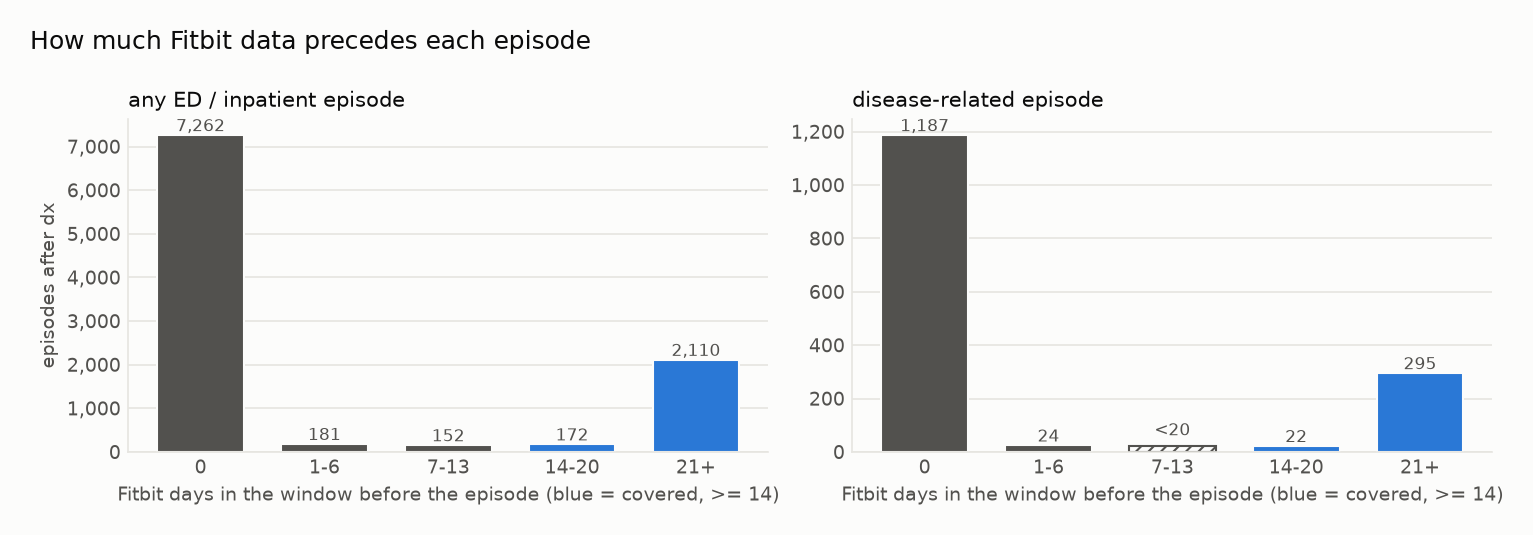
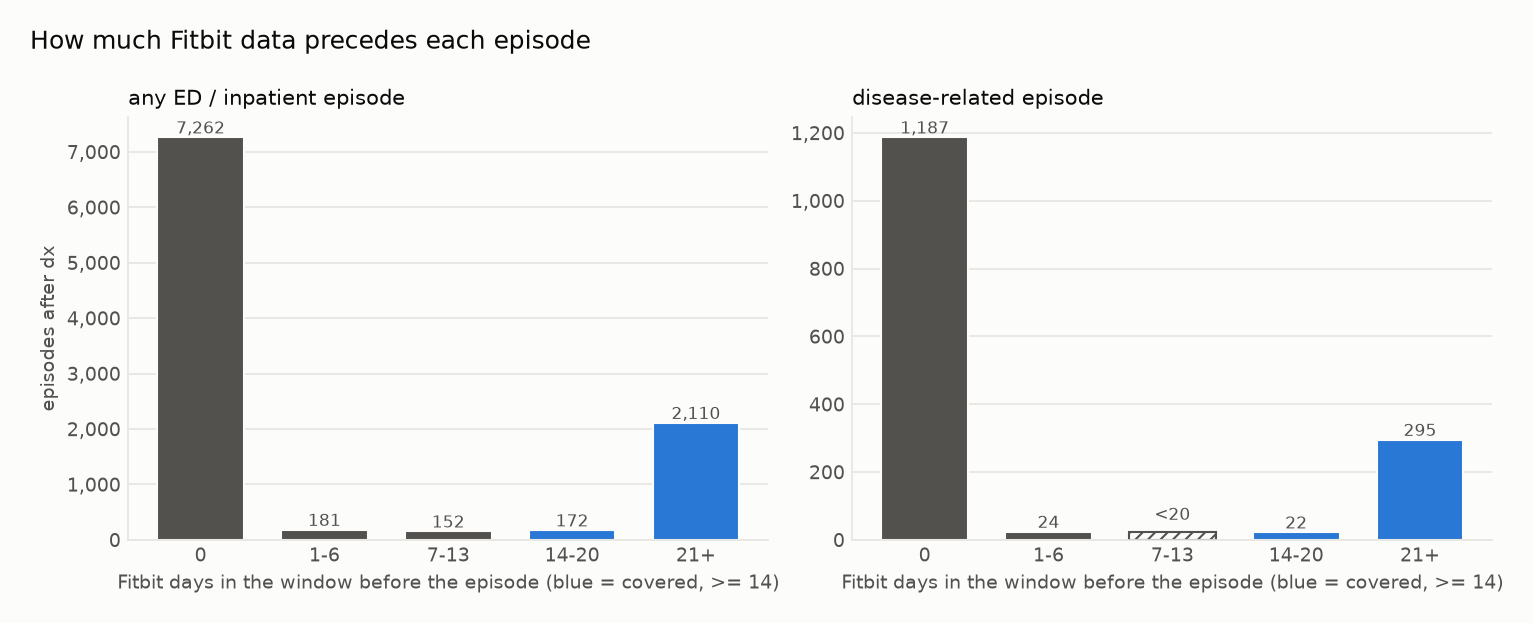
wearables-events plots: taller coverage figure (no tight-layout warning)

diff --git a/audits/wearables_events_plots.py b/audits/wearables_events_plots.py
@@ -114,7 +114,7 @@ def plot_coverage(t: dict, plt):
     above the report's coverage threshold (covered episodes) in blue."""
     c = t["coverage"]
     bins = list(c.columns[1:])
-    fig = _fig(plt, 10, 3.4)
+    fig = _fig(plt, 10, 4.0)
     axes = fig.subplots(1, len(c), squeeze=False).ravel()
     for ax, (_, r) in zip(axes, c.iterrows()):
         _style(ax)
